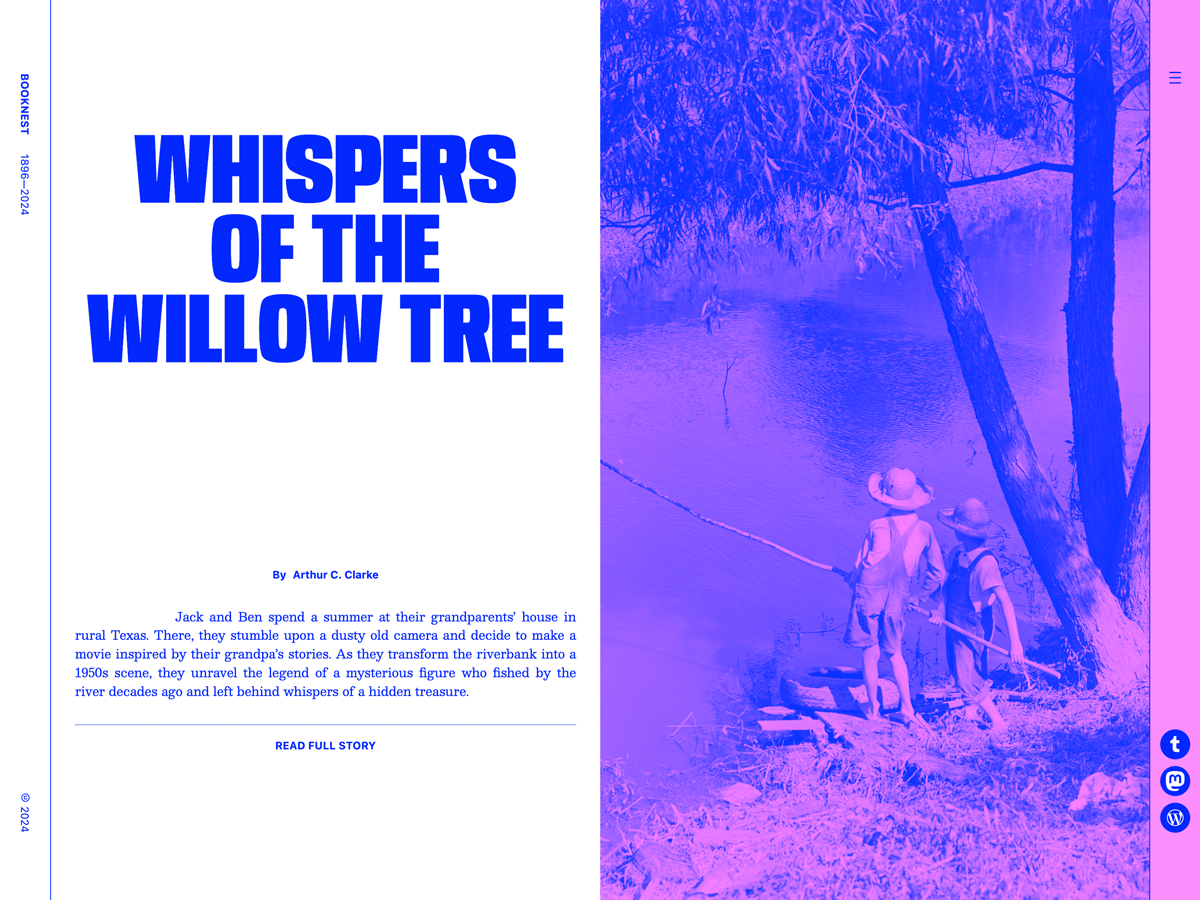
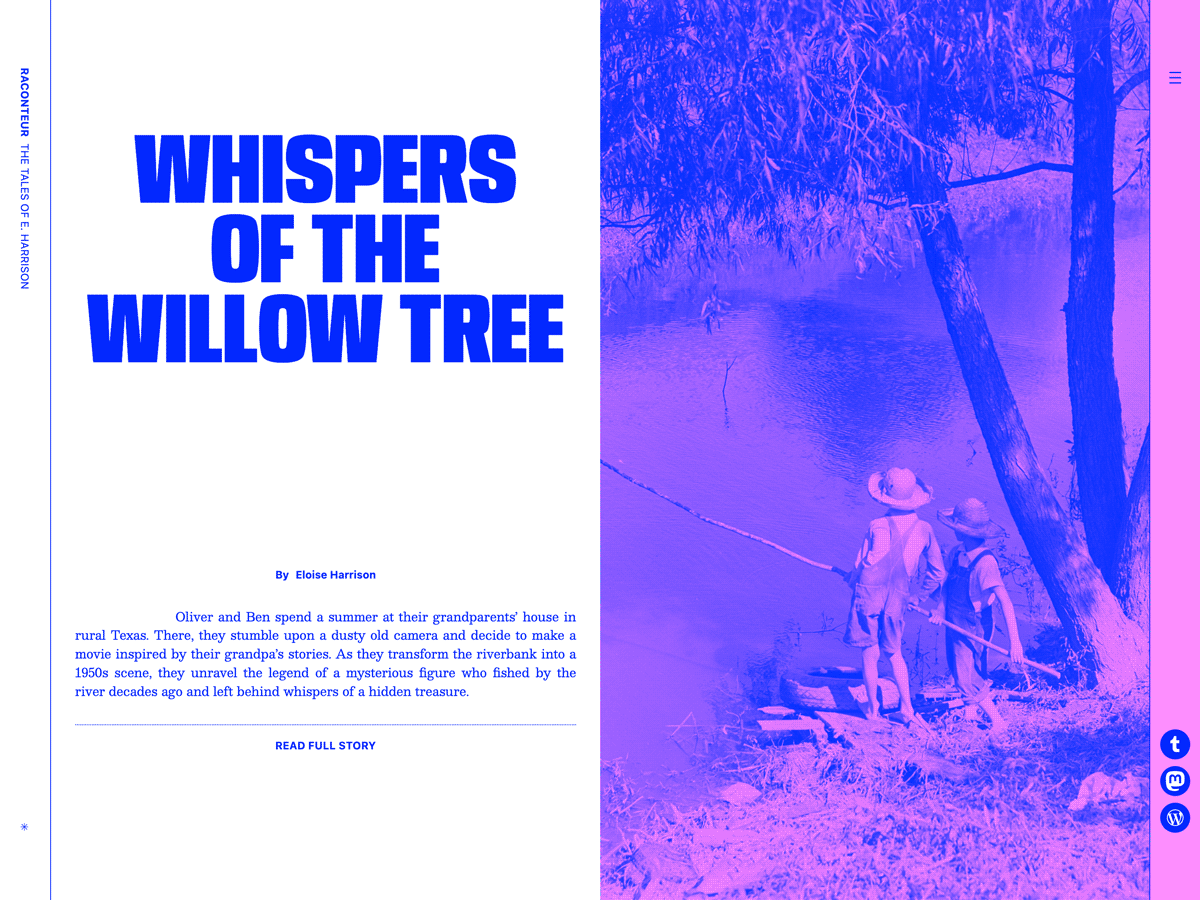
Raconteur: updates screenshot (#8209)
* Raconteur: updates screenshot

* Raconteur: updates version number

diff --git a/raconteur/style.css b/raconteur/style.css
@@ -7,7 +7,7 @@ Description: A theme to promote marvelous stories, Raconteur displays enlarged i
 Requires at least: 6.0
 Tested up to: 6.6
 Requires PHP: 5.7
-Version: 1.0.3
+Version: 1.0.4
 License: GNU General Public License v2 or later
 License URI: http://www.gnu.org/licenses/gpl-2.0.html
 Text Domain: raconteur
